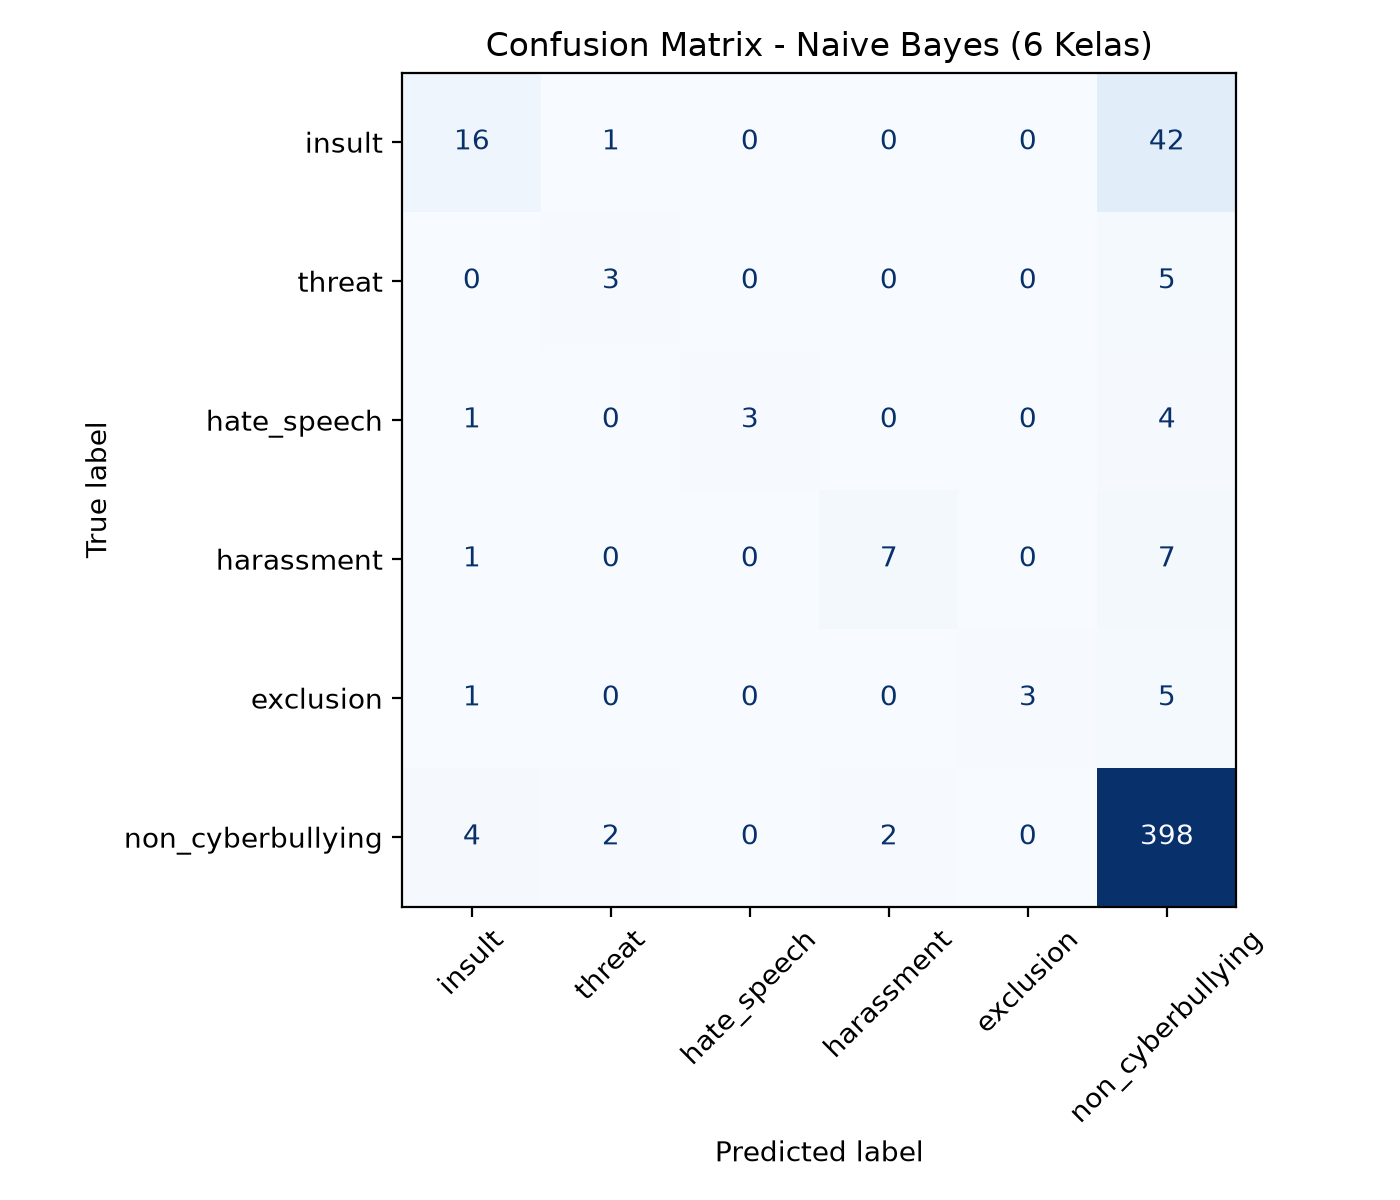
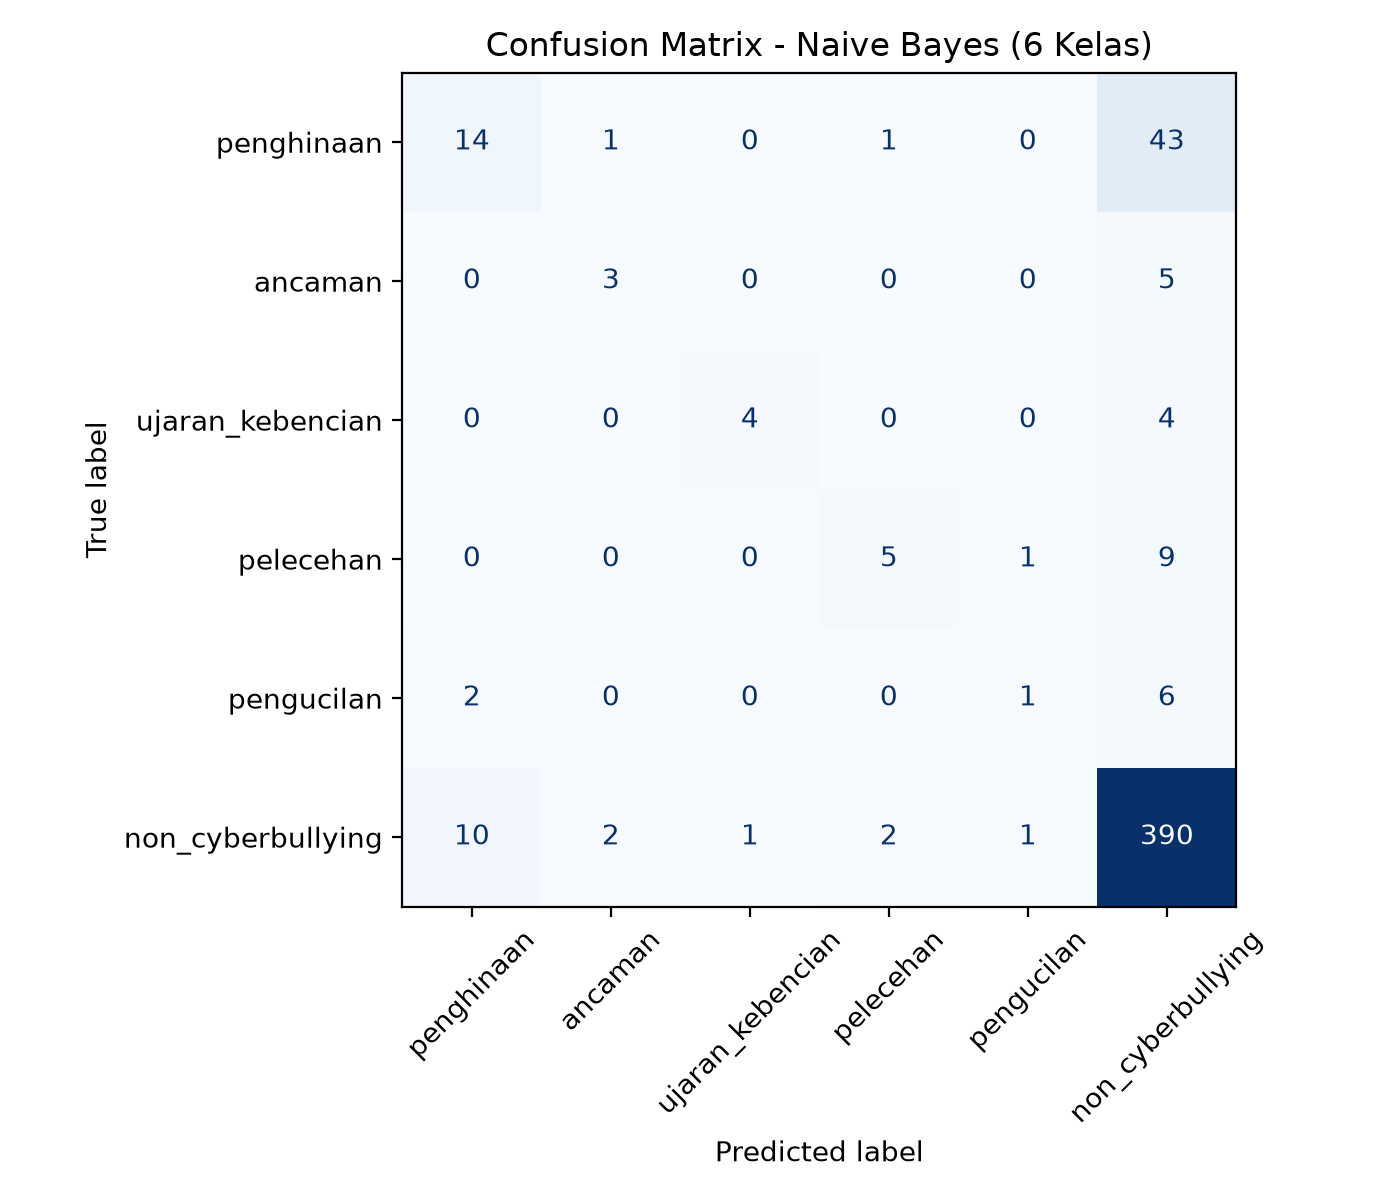
Selaraskan dokumentasi & hasil ke sistem web+DB terkini (label Indonesia)
- README: banner sistem web+DB (SQLite/XAMPP-MySQL/Supabase) + live URL;
  tabel hasil enam-kelas diperbarui ke angka label Indonesia (holdout 0,826/0,480);
  narasi ablasi disesuaikan (jelaskan pergeseran holdout krn relabel, CV tetap).
- hasil/: ekspor confusion matrix (label Indonesia) + metrik.json + model terkini
  dari database, menggantikan versi lama (label Inggris).

diff --git a/README.md b/README.md
@@ -1,5 +1,14 @@
 # Kode Skripsi — Deteksi Cyberbullying Discord (Naïve Bayes)
 
+> **Sistem kini berupa APLIKASI WEB multi-halaman + DATABASE.**
+> Entri: `Beranda.py` (jalankan `streamlit run Beranda.py`); tahapan di `pages/`;
+> logika di `lib/`. Database: **SQLite** (default lokal), **MySQL/MariaDB via XAMPP**
+> (demo lokal — `mysql+pymysql://root@localhost:3306/cyberbullying`), atau
+> **PostgreSQL/Supabase** (online). Live: https://deteksi-cyberbullying-discord.streamlit.app
+> Label kelas kini **Bahasa Indonesia** (penghinaan, ancaman, ujaran_kebencian,
+> pelecehan, pengucilan, non_cyberbullying). Angka hasil terkini: `hasil/metrik.json`.
+> Script lama `01`–`05` & `04_antarmuka_streamlit.py` disimpan sebagai arsip metodologi.
+
 Kode ini mengikuti metodologi **BAB III–V** skripsi (Naufal Ikhsan Erman,
 Teknik Informatika, UPI YPTK Padang). Semua angka di kode, README, dan naskah
 sudah diselaraskan agar konsisten dan dapat direproduksi (seed = 42).
@@ -68,7 +77,7 @@ Stemming (Sastrawi) → TF-IDF (n-gram 1–2, min_df=2).
 **Holdout** (split 80:20 stratified):
 | Skenario | Akurasi | macro-F1 | weighted-F1 |
 |---|---|---|---|
-| **Enam kelas** (tanpa oversampling) | 0,851 | 0,561 | 0,825 |
+| **Enam kelas** (tanpa oversampling) | 0,826 | 0,480 | 0,798 |
 | **Biner** (cyberbullying vs non, tanpa resampling) | 0,826 | 0,648 | 0,800 |
 | *baseline "selalu normal"* | *0,804* | — | — |
 
@@ -81,9 +90,12 @@ Stemming (Sastrawi) → TF-IDF (n-gram 1–2, min_df=2).
 - **Hasil utama = skema BINER** (CV 0,836 ± 0,009; di atas target 75% & baseline 0,804).
 - **Oversampling dihapus** dari kedua skema. Uji ablasi (validasi silang 5-lipat)
   menunjukkan oversampling justru menurunkan kinerja enam-kelas; tanpa oversampling
-  enam-kelas naik dari **CV akurasi 0,532 → 0,832** dan **macro-F1 0,377 → 0,494**,
-  serta holdout **akurasi 0,851 & macro-F1 0,561**. Kelas terlangka `hate_speech`
-  kini **F1 0,545** (dari 0 di versi awal). Dilaporkan **jujur apa adanya, tanpa data sintetis**.
+  enam-kelas naik dari **CV akurasi 0,532 → 0,832** dan **macro-F1 0,377 → 0,494**.
+  Holdout enam-kelas (label Indonesia) kini **akurasi 0,826 & macro-F1 0,480**
+  (rincian per-kelas terkini di `hasil/metrik.json`; angka holdout enam-kelas
+  bergeser dari versi lama 0,851/0,561 karena penggantian nama label mengubah
+  pembagian acak *stratified split* — CV yang lebih stabil TIDAK berubah).
+  Dilaporkan **jujur apa adanya, tanpa data sintetis**.
 
 ## Catatan penting (perbaikan yang sudah diterapkan)
 1. **Oversampling dihapus dari kedua skema.** Uji ablasi (validasi silang 5-lipat,
